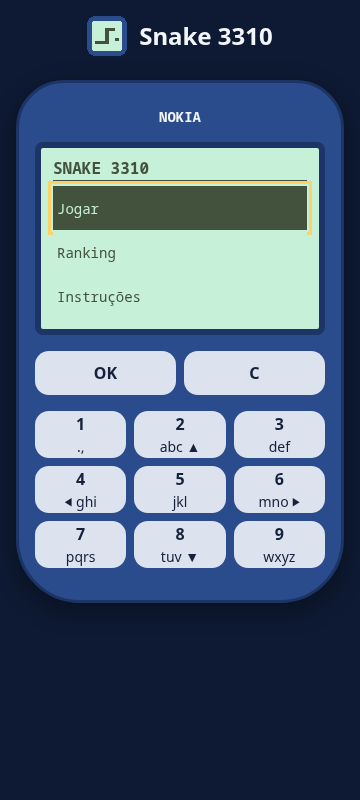
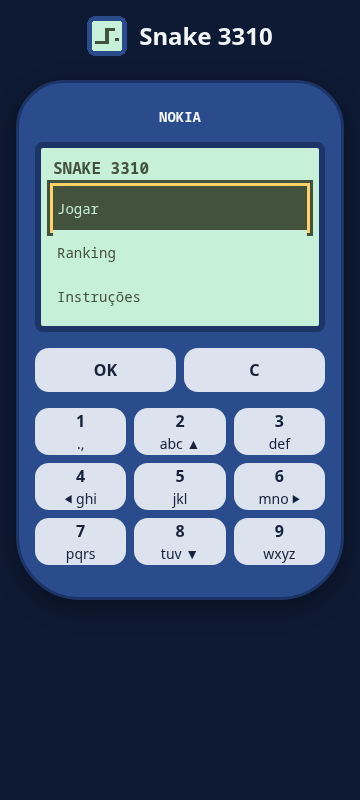
fix(web): enforce security headers and preserve enlarged text

Changed region(s): [[0.0611, 0.4062, 0.9472, 0.7812], [0.1222, 0.2188, 0.8861, 0.3125]]

diff --git a/src/web/styles.css b/src/web/styles.css
@@ -7,6 +7,7 @@ body {
   display: flex; flex-direction: column; align-items: center; gap: var(--espaco-5); padding: var(--espaco-4);
 }
 :focus-visible { outline: calc(var(--espaco-1) * 0.75) solid var(--cor-foco); outline-offset: calc(var(--espaco-1) / 2); }
+.screen :focus-visible { outline-offset: 0; box-shadow: 0 0 0 calc(var(--espaco-1) * 1.5) var(--cor-pixel); }
 .header { display: flex; align-items: center; gap: var(--espaco-3); }
 .header img { width: calc(var(--espaco-5) + var(--espaco-4)); height: calc(var(--espaco-5) + var(--espaco-4)); }
 .header h1 { font-size: var(--tamanho-titulo); margin: 0; }
@@ -18,17 +19,19 @@ body {
 }
 .brand { font: var(--peso-forte) var(--tamanho-pequeno) var(--fonte-tela); }
 .screen {
-  width: 100%; aspect-ratio: 84 / 56; background: var(--cor-tela); border-radius: var(--raio-padrao);
+  width: 100%; min-height: calc(var(--toque-minimo) * 3 + var(--tamanho-corpo) * var(--altura-linha) + var(--espaco-6));
+  background: var(--cor-tela); border-radius: var(--raio-padrao);
   border: calc(var(--espaco-1) * 1.5) solid var(--cor-aparelho-borda); position: relative; overflow: hidden;
   color: var(--cor-pixel); font-family: var(--fonte-tela);
 }
-.layer { position: absolute; inset: 0; padding: var(--espaco-2) var(--espaco-3); display: flex; flex-direction: column; }
+.layer { padding: var(--espaco-2) var(--espaco-3); display: flex; flex-direction: column; }
 .layer[hidden] { display: none; }
 .screen h2 { margin: 0 0 var(--espaco-1); font-size: var(--tamanho-corpo); text-transform: uppercase; border-bottom: calc(var(--espaco-1) / 2) solid var(--cor-pixel); }
 .screen ol, .screen ul { margin: 0; padding: 0; list-style: none; font-size: var(--tamanho-pequeno); line-height: var(--altura-linha); }
 .screen li { display: flex; justify-content: space-between; gap: var(--espaco-1); }
-#ranking-list span:first-child { overflow: hidden; text-overflow: ellipsis; white-space: nowrap; }
-#ranking-list span:last-child { flex-shrink: 0; }
+#ranking-list li { display: grid; grid-template-columns: repeat(2, minmax(0, 1fr)); }
+#ranking-list span { overflow-wrap: anywhere; }
+#ranking-list span:last-child { text-align: right; }
 .menu button { border: 0; padding: 0 var(--espaco-1); width: 100%; min-height: var(--toque-minimo); text-align: left; background: var(--cor-tela); color: var(--cor-pixel); font: inherit; cursor: pointer; }
 .menu button[data-selected='true'] { background: var(--cor-pixel); color: var(--cor-tela); }
 .notice { margin: auto; text-align: center; font-size: var(--tamanho-pequeno); }

diff --git a/src/interface/http/app.ts b/src/interface/http/app.ts
@@ -7,18 +7,21 @@ import { describeError, type Db } from '../../infra/database/db.js';
 import { SqlDatabaseProbe } from '../../infra/database/probe.js';
 import { SqlScoreRepository } from '../../infra/database/score-repository.js';
 import { problemFor, sendProblem, UNAVAILABLE } from './problem.js';
+import { registerSecurityHeaders } from './seguranca/headers.js';
 
 export interface AppOptions {
   basePath: string;
   db: Db;
   webDir?: string;
   logger?: boolean;
+  production?: boolean;
 }
 
 // Everything lives under basePath (RN-0002): <basePath>/ serves the game, <basePath>/api/* the API.
 export async function buildApp(options: AppOptions): Promise<FastifyInstance> {
   const basePath = normalizeBasePath(options.basePath);
   const app = Fastify({ logger: options.logger ?? false, trustProxy: false, ajv: { customOptions: { removeAdditional: false } } });
+  registerSecurityHeaders(app, options.production ?? false);
   const readiness = new CheckReadiness(new SqlDatabaseProbe(options.db), (error) =>
     app.log.warn({ banco: describeError(error) }, 'banco indisponível'),
   );

diff --git a/src/interface/http/seguranca/headers.ts b/src/interface/http/seguranca/headers.ts
@@ -1,0 +1,20 @@
+import type { FastifyInstance } from 'fastify';
+
+const CONTENT_SECURITY_POLICY = [
+  "default-src 'self'", "script-src 'self'", "style-src 'self'", "img-src 'self'", "font-src 'self'",
+  "connect-src 'self'", "object-src 'none'", "base-uri 'self'", "form-action 'self'", "frame-ancestors 'none'",
+].join('; ');
+const HSTS_MAX_AGE_SECONDS = 31_536_000;
+
+export function registerSecurityHeaders(app: FastifyInstance, production: boolean): void {
+  app.addHook('onSend', async (_request, reply, payload) => {
+    reply.header('Content-Security-Policy', CONTENT_SECURITY_POLICY);
+    reply.header('X-Content-Type-Options', 'nosniff');
+    reply.header('Referrer-Policy', 'strict-origin-when-cross-origin');
+    reply.header('Permissions-Policy', 'camera=(), microphone=(), geolocation=()');
+    reply.header('X-Frame-Options', 'DENY');
+    // Do not extend the shared host's HSTS policy to its subdomains.
+    if (production) reply.header('Strict-Transport-Security', `max-age=${HSTS_MAX_AGE_SECONDS}`);
+    return payload;
+  });
+}

diff --git a/src/interface/main.ts b/src/interface/main.ts
@@ -8,7 +8,7 @@ let log: { error(details: object, message: string): void } = {
   error: (details, message) => console.error(message, details),
 };
 const db = createPool(config.databaseUrl, (error) => log.error({ banco: error }, 'erro numa conexão parada do banco'));
-const app = await buildApp({ basePath: config.basePath, db, webDir: config.webDir, logger: true });
+const app = await buildApp({ basePath: config.basePath, db, webDir: config.webDir, logger: true, production: config.production });
 log = app.log;
 
 let stopping = false;

diff --git a/src/infra/config.ts b/src/infra/config.ts
@@ -6,6 +6,7 @@ export interface Config {
   basePath: string;
   databaseUrl: string;
   webDir: string;
+  production: boolean;
 }
 
 const BASE_PATH = /^(\/[a-z0-9][a-z0-9-]*)*$/;
@@ -28,5 +29,6 @@ export function readConfig(env: NodeJS.ProcessEnv): Config {
     basePath: normalizeBasePath(env.BASE_PATH),
     databaseUrl,
     webDir: resolve(env.WEB_DIR ?? 'dist/web'), // @fastify/static needs an absolute path
+    production: env.NODE_ENV === 'production',
   };
 }

diff --git a/README.md b/README.md
@@ -76,13 +76,16 @@ C/Esc para voltar. No ranking, OK repete a consulta. A partida ainda não está 
   `npm run test:migracoes` e `npm run build`. Depois do build: `npm run migrar` (aplica as migrações) e `npm start`.
 - `npm run dev` abre o Vite para a interface e encaminha `/api` para o servidor local na porta 8080;
   `npm run build` compila servidor e front em `dist/server` e `dist/web`, com caminhos relativos no front.
-- `npm run test:ui` valida teclado, cinco linhas, contraste/acessibilidade com axe e layout em 360 px no Chromium.
+- `npm run test:ui` serve o build real sob a CSP do Fastify e valida teclado, cinco linhas, contraste/acessibilidade
+  com axe, layout em 360 px e texto ampliado em 200% no Chromium.
   Instale o navegador de teste com `npx playwright install chromium` antes de executar esse comando. Os testes DOM
   e de semântica com axe também rodam em `npm test` na CI.
 - Os testes usam um Postgres em memória (PGlite, ADR-0002); não é preciso instalar banco para desenvolver.
 - Variáveis de ambiente do servidor (os valores ficam só no servidor): `BASE_PATH` (endereço do jogo, por exemplo
   `/snake-3310`), `DATABASE_URL`, `PORT` (padrão 8080), `WEB_DIR` (padrão `dist/web`) e, para `npm run migrar`, `MIGRATIONS_DIR` (padrão
   `migrations`).
+- `NODE_ENV=production` ativa HSTS por um ano. CSP restrita ao próprio site, proteção contra frames, nosniff,
+  política de referrer e bloqueio de câmera/microfone/localização são enviados em todas as respostas.
 
 (a preencher) — estrutura do repositório, como rodar a partir do código, testes e build (comandos de
 `bigbang.toml` `[comandos]`), variáveis de ambiente sem valores.

diff --git a/docs/memoria.md b/docs/memoria.md
@@ -9,7 +9,12 @@ Pegadinhas que a próxima sessão precisa saber. Uma linha por item, com a data 
 - 2026-10-06 (#18): Enter/espaço em botão usam ativação nativa, sem processamento duplicado. A navegação restaura
   foco ao menu. Respostas antigas do ranking são ignoradas após sair/reabrir ou repetir a consulta.
 - 2026-10-06 (#18): testes DOM/axe rodam no Vitest/CI. `npm run test:ui` precisa de Chromium instalado pelo Playwright
-  e verifica layout, área de toque e axe em navegador real; cria `docs/imagens/menu-3310.png`.
+  e verifica o build real servido pelo Fastify/CSP, layout, texto200%, contraste de foco, área de toque e axe em
+  navegador real; cria `docs/imagens/menu-3310.png`.
+- 2026-10-06 (#18): `registerSecurityHeaders` deve ser registrado antes dos plugins para que HTML, API e erros
+  recebam a mesma CSP (SEG-10). HSTS só com `NODE_ENV=production`; a política não inclui subdomínios do proxy.
+- 2026-10-06 (#18): não fixe a altura das camadas da tela; conteúdo em fluxo + altura mínima baseada nos controles permitem
+  texto200% sem corte. Nomes/pontos quebram linha; o foco na tela usa dupla borda com tokens aprovados.
 - 2026-10-06 (#18): a opção Jogar ainda é “Em breve”: a partida está fora do épico #13; o protótipo jogável continua
   referência para o próximo épico, sem envio real de placar.
 

diff --git a/docs/guias/interface.md b/docs/guias/interface.md
@@ -14,4 +14,6 @@ Durante a consulta aparece “Carregando…”. Sem placares, “Ninguém ainda.
 formato da resposta falharem, “Sem conexão. OK tenta de novo”. Pressione OK para repetir a consulta ou C para voltar.
 
 O teclado numérico é clicável em computadores e celulares. A interface foi verificada com 360 px de largura,
-sem rolagem horizontal; as teclas têm área de toque mínima de 44 × 44 px e o foco é visível.
+sem rolagem horizontal; as teclas têm área de toque mínima de 44 × 44 px e o foco é visível. A tela cresce quando
+o texto é ampliado em 200%, mantendo apelidos e pontos completos com quebra de linha, sem reticências. O contorno
+amarelo recebe uma borda escura sobre a tela verde para manter contraste perceptível.
